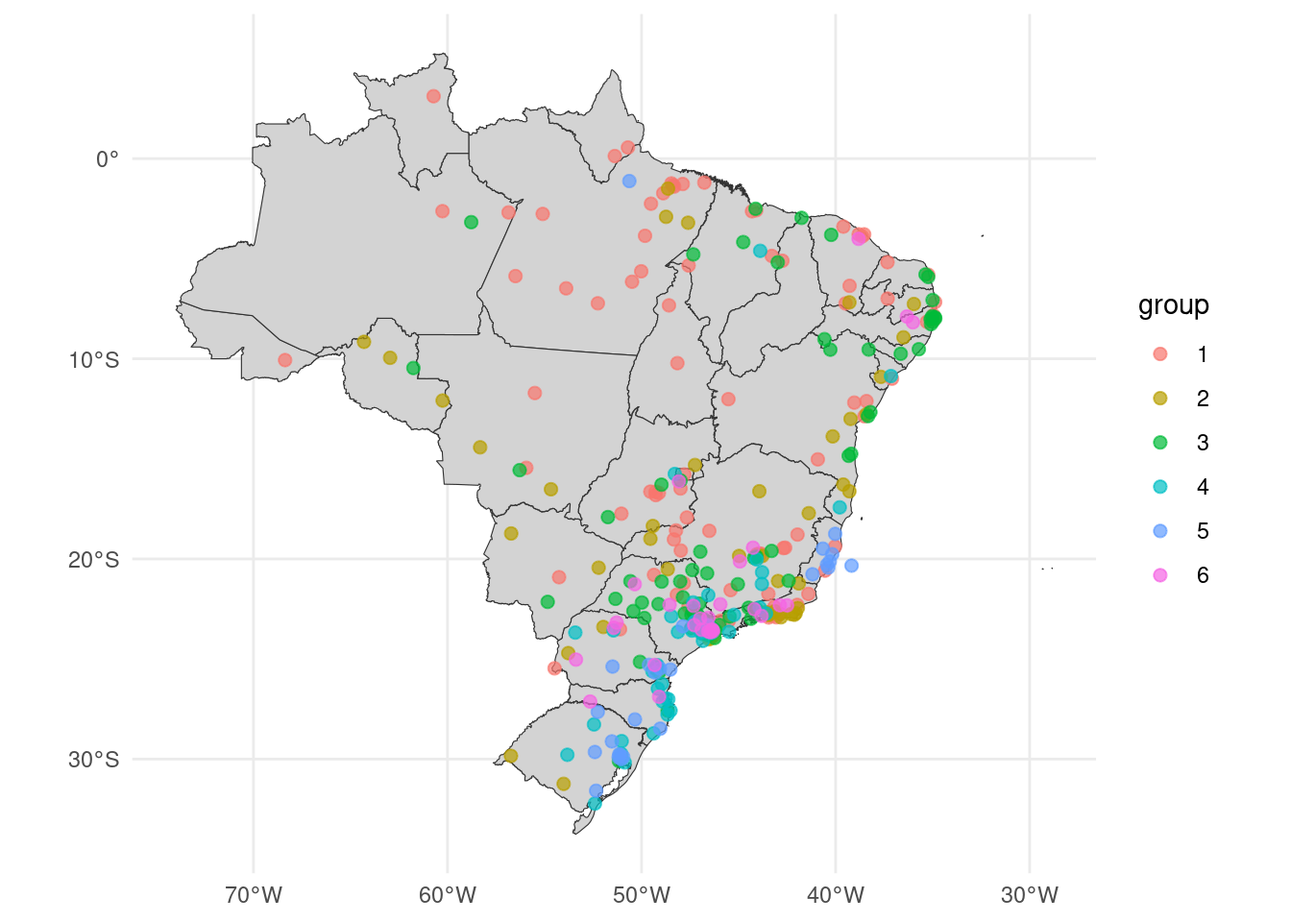
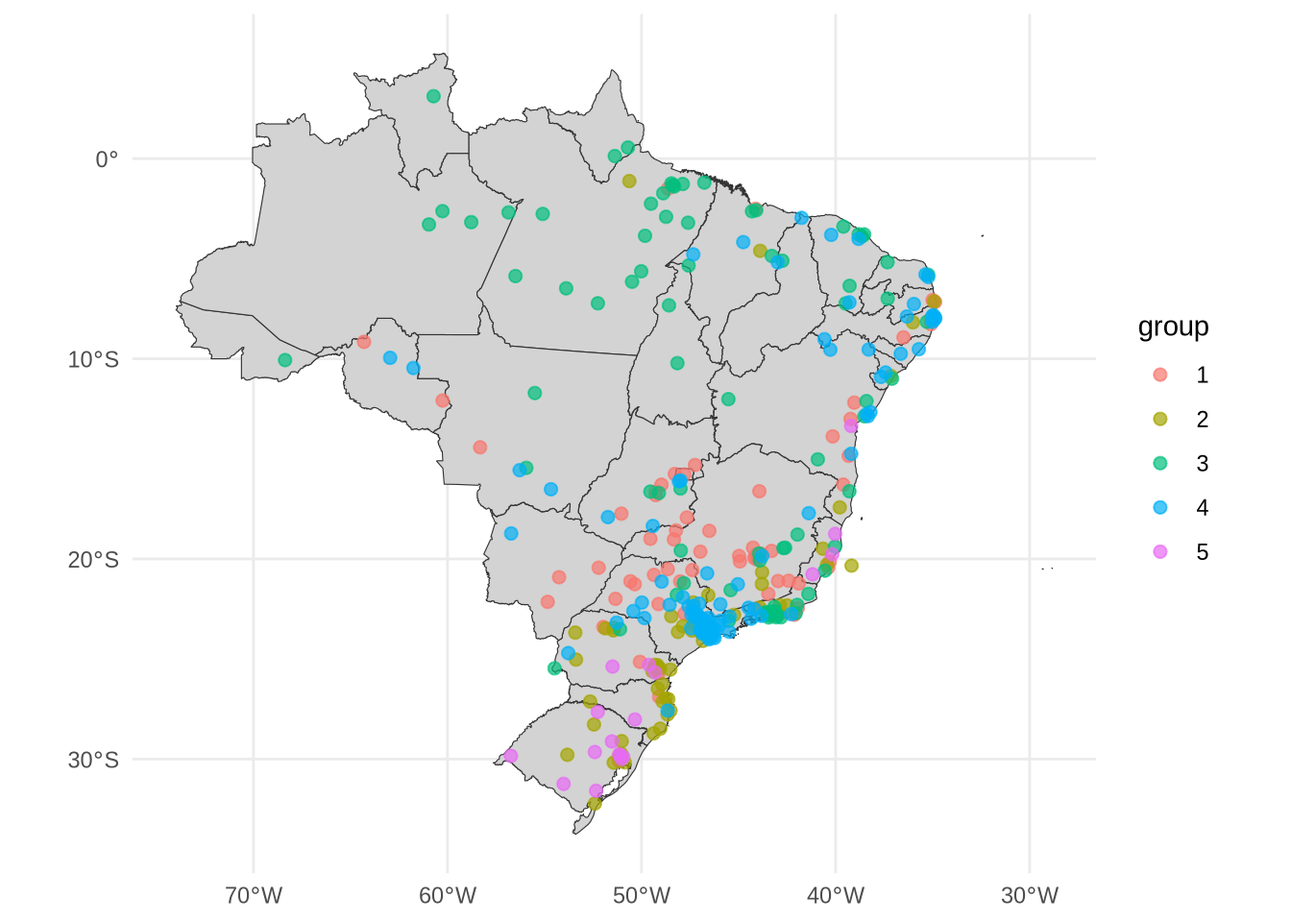
cluster run

diff --git a/docs/dengue-cluster/cluster_multivariate_all.html b/docs/dengue-cluster/cluster_multivariate_all.html
@@ -106,15 +106,15 @@ gtag('js', new Date());
 gtag('config', 'G-ZMP18L536K', { 'anonymize_ip': true});
 </script>
 
-<script src="../site_libs/htmlwidgets-1.6.4/htmlwidgets.js"></script>
+<script src="../site_libs/htmlwidgets-1.6.2/htmlwidgets.js"></script>
 <link href="../site_libs/datatables-css-0.0.0/datatables-crosstalk.css" rel="stylesheet">
-<script src="../site_libs/datatables-binding-0.31/datatables.js"></script>
+<script src="../site_libs/datatables-binding-0.28/datatables.js"></script>
 <script src="../site_libs/jquery-3.6.0/jquery-3.6.0.min.js"></script>
-<link href="../site_libs/dt-core-1.13.6/css/jquery.dataTables.min.css" rel="stylesheet">
-<link href="../site_libs/dt-core-1.13.6/css/jquery.dataTables.extra.css" rel="stylesheet">
-<script src="../site_libs/dt-core-1.13.6/js/jquery.dataTables.min.js"></script>
-<link href="../site_libs/crosstalk-1.2.1/css/crosstalk.min.css" rel="stylesheet">
-<script src="../site_libs/crosstalk-1.2.1/js/crosstalk.min.js"></script>
+<link href="../site_libs/dt-core-1.13.4/css/jquery.dataTables.min.css" rel="stylesheet">
+<link href="../site_libs/dt-core-1.13.4/css/jquery.dataTables.extra.css" rel="stylesheet">
+<script src="../site_libs/dt-core-1.13.4/js/jquery.dataTables.min.js"></script>
+<link href="../site_libs/crosstalk-1.2.0/css/crosstalk.min.css" rel="stylesheet">
+<script src="../site_libs/crosstalk-1.2.0/js/crosstalk.min.js"></script>
 
 
 <link rel="stylesheet" href="../styles.css">
@@ -608,7 +608,7 @@ gtag('config', 'G-ZMP18L536K', { 'anonymize_ip': true});
     <div>
     <div class="quarto-title-meta-heading">Last modification</div>
     <div class="quarto-title-meta-contents">
-      <p class="date">January 29, 2024 | 14:13:45 +01:00</p>
+      <p class="date">January 29, 2024 | 10:39:52 -03:00</p>
     </div>
   </div>
   
@@ -644,13 +644,13 @@ gtag('config', 'G-ZMP18L536K', { 'anonymize_ip': true});
 <span id="cb2-4"><a href="#cb2-4" aria-hidden="true" tabindex="-1"></a></span>
 <span id="cb2-5"><a href="#cb2-5" aria-hidden="true" tabindex="-1"></a><span class="fu">dim</span>(tdengue)</span></code><button title="Copy to Clipboard" class="code-copy-button"><i class="bi"></i></button></pre></div>
 <div class="cell-output cell-output-stdout">
-<pre><code>[1] 163326      6</code></pre>
+<pre><code>[1] 331980      6</code></pre>
 </div>
 </div>
 <div class="cell">
 <div class="sourceCode cell-code" id="cb4"><pre class="sourceCode r code-with-copy"><code class="sourceCode r"><span id="cb4-1"><a href="#cb4-1" aria-hidden="true" tabindex="-1"></a><span class="fu">length</span>(<span class="fu">unique</span>(tdengue<span class="sc">$</span>mun))</span></code><button title="Copy to Clipboard" class="code-copy-button"><i class="bi"></i></button></pre></div>
 <div class="cell-output cell-output-stdout">
-<pre><code>[1] 326</code></pre>
+<pre><code>[1] 333</code></pre>
 </div>
 </div>
 <p>Data for maps.</p>
@@ -688,15 +688,15 @@ gtag('config', 'G-ZMP18L536K', { 'anonymize_ip': true});
 <div class="sourceCode cell-code" id="cb12"><pre class="sourceCode r code-with-copy"><code class="sourceCode r"><span id="cb12-1"><a href="#cb12-1" aria-hidden="true" tabindex="-1"></a><span class="fu">glimpse</span>(mdengue[<span class="dv">1</span><span class="sc">:</span><span class="dv">3</span>])</span></code><button title="Copy to Clipboard" class="code-copy-button"><i class="bi"></i></button></pre></div>
 <div class="cell-output cell-output-stdout">
 <pre><code>List of 3
- $ 110002: num [1:501, 1:4] -0.5104 0.668 0.668 0.0788 0.668 ...
+ $ 110002: num [1:1001, 1:4] -0.511 0.668 0.668 0.668 0.668 ...
   ..- attr(*, "dimnames")=List of 2
   .. ..$ : NULL
   .. ..$ : chr [1:4] "cases" "tmax" "tmin" "prec"
- $ 110012: num [1:501, 1:4] -0.4493 0.6488 1.1979 0.0997 0.0997 ...
+ $ 110012: num [1:1001, 1:4] -0.45 0.648 0.648 1.198 1.198 ...
   ..- attr(*, "dimnames")=List of 2
   .. ..$ : NULL
   .. ..$ : chr [1:4] "cases" "tmax" "tmin" "prec"
- $ 110020: num [1:501, 1:4] -0.5195 0.1563 0.0718 -0.1816 0.3253 ...
+ $ 110020: num [1:1001, 1:4] -0.5201 0.1558 0.1558 0.0713 0.0713 ...
   ..- attr(*, "dimnames")=List of 2
   .. ..$ : NULL
   .. ..$ : chr [1:4] "cases" "tmax" "tmin" "prec"</code></pre>
@@ -716,7 +716,7 @@ gtag('config', 'G-ZMP18L536K', { 'anonymize_ip': true});
 <span id="cb14-7"><a href="#cb14-7" aria-hidden="true" tabindex="-1"></a>)</span>
 <span id="cb14-8"><a href="#cb14-8" aria-hidden="true" tabindex="-1"></a><span class="fu">toc</span>()</span></code><button title="Copy to Clipboard" class="code-copy-button"><i class="bi"></i></button></pre></div>
 <div class="cell-output cell-output-stdout">
-<pre><code>13.926 sec elapsed</code></pre>
+<pre><code>33.221 sec elapsed</code></pre>
 </div>
 </div>
 <section id="cluster-validity-indices-cvi" class="level3">
@@ -731,8 +731,8 @@ gtag('config', 'G-ZMP18L536K', { 'anonymize_ip': true});
 <span id="cb16-7"><a href="#cb16-7" aria-hidden="true" tabindex="-1"></a><span class="fu">datatable</span>(res_cvi)</span></code><button title="Copy to Clipboard" class="code-copy-button"><i class="bi"></i></button></pre></div>
 <div class="cell-output-display">
 
-<div class="datatables html-widget html-fill-item" id="htmlwidget-2228f0057e4179a1f21e" style="width:100%;height:auto;"></div>
-<script type="application/json" data-for="htmlwidget-2228f0057e4179a1f21e">{"x":{"filter":"none","vertical":false,"data":[["1","2","3","4","5","6","7","8","9","10","11","12","13","14","15","16","17","18"],["k_6","k_5","k_14","k_4","k_11","k_15","k_10","k_3","k_19","k_8","k_20","k_17","k_9","k_18","k_16","k_12","k_13","k_7"],[0.1530297469356477,0.1440762044713745,0.1400584225015963,0.1354547579634003,0.1208323157407356,0.1105893378279768,0.1095486174706609,0.1094875020359826,0.1089257116601769,0.09797794633096432,0.09210995555770808,0.09154821081714312,0.08908547609352244,0.08260358364305846,0.08129072667558394,0.07136656410796276,0.06131959166201611,0.03334285681935422],[0,0,0,0,0,0,0,0,0,0,0,0,0,0,0,0,0,0],[66.03871539724065,70.83730006839602,31.05107538599962,73.72133754541019,36.74893705232316,28.20357775100776,37.92326564538576,132.799072097871,23.39248613274816,46.02250861410634,22.58194920998412,26.34562406898972,41.3226490792125,23.70068122356517,25.71442726657208,34.46339975166363,32.37456572009118,39.47010817257704],[2.016717468165261,1.939575756275471,1.569492045784807,1.80846374856984,1.796855644968916,1.82821826051781,1.95121179376399,1.799833628541421,1.807197655292344,2.345528320027988,1.722026296063557,1.938822173588695,2.109041983689778,2.018107368640858,1.794717064569474,2.306726907779244,2.044140737665228,2.491651988726502],[2.831176268818642,2.347999367208251,1.951876574122824,1.819376903904833,2.284181270249329,2.69986132475828,2.646232116412836,1.876632643543888,2.300494532526559,3.133500281328306,2.29180932440963,2.597457610600983,2.915782300990952,2.656927220913814,2.672091378347231,2.968123486807218,2.857604373450767,2.757466387210257],[0.06404119331825649,0.05293480520822988,0.07478527348838045,0.07474487852441768,0.06461003914169353,0.09877742552571456,0.09261909518077052,0.05288796621815163,0.1010807627526162,0.06404119331825649,0.1020234877438586,0.07528597865196485,0.06974269565671985,0.05311861964957065,0.06407529214486364,0.0469497174971813,0.04481128132921332,0.05903396603380133],[0.2750364644880977,0.29375881890079,0.2368916791190641,0.3655863370523117,0.2495944625836389,0.2381982078210064,0.251850261562682,0.3672949506522975,0.2234764172064207,0.2688587067005322,0.2203517930010253,0.2249012289596225,0.2632677092874243,0.2320771535639892,0.2380825819007399,0.2470739370001668,0.2455732801168612,0.3216543774674874]],"container":"<table class=\"display\">\n  <thead>\n    <tr>\n      <th> <\/th>\n      <th>k<\/th>\n      <th>Sil<\/th>\n      <th>SF<\/th>\n      <th>CH<\/th>\n      <th>DB<\/th>\n      <th>DBstar<\/th>\n      <th>D<\/th>\n      <th>COP<\/th>\n    <\/tr>\n  <\/thead>\n<\/table>","options":{"columnDefs":[{"className":"dt-right","targets":[2,3,4,5,6,7,8]},{"orderable":false,"targets":0},{"name":" ","targets":0},{"name":"k","targets":1},{"name":"Sil","targets":2},{"name":"SF","targets":3},{"name":"CH","targets":4},{"name":"DB","targets":5},{"name":"DBstar","targets":6},{"name":"D","targets":7},{"name":"COP","targets":8}],"order":[],"autoWidth":false,"orderClasses":false},"selection":{"mode":"multiple","selected":null,"target":"row","selectable":null}},"evals":[],"jsHooks":[]}</script>
+<div class="datatables html-widget html-fill-item-overflow-hidden html-fill-item" id="htmlwidget-602228f0057e4179a1f2" style="width:100%;height:auto;"></div>
+<script type="application/json" data-for="htmlwidget-602228f0057e4179a1f2">{"x":{"filter":"none","vertical":false,"data":[["1","2","3","4","5","6","7","8","9","10","11","12","13","14","15","16","17","18"],["k_5","k_10","k_4","k_11","k_8","k_9","k_3","k_6","k_15","k_18","k_7","k_14","k_16","k_13","k_12","k_19","k_17","k_20"],[0.1279891898123446,0.119391513627497,0.1112460346175835,0.111183544363204,0.1037889735428478,0.09908440332531278,0.09892984383200942,0.09398010585344234,0.09269024567672776,0.08951796943607226,0.08892738818122657,0.08854704499566712,0.08643915610544772,0.0820343625057926,0.07761686669656334,0.06921027960321488,0.05487261485226928,0.04173607783450495],[0,0,0,0,0,0,0,0,0,0,0,0,0,0,0,0,0,0],[77.75557636045349,36.86152453465702,84.89952578430741,35.64293817440353,41.08147273532985,43.48789744620822,106.4230192029615,52.53254600580426,25.96180002036026,23.803732462588,53.87800011773442,30.10210404457136,27.11284537736144,29.87663609861306,31.04191310540553,21.59494888502675,22.62436202537118,18.76528009214688],[1.658898470788445,1.882554869825658,1.924466082331256,1.9938445306628,2.204419668240759,1.648603751234362,2.107691477550161,2.137246906350873,1.945500720947033,1.9060611331235,1.830034787074255,1.904295830187339,1.85320605023181,1.932421270659566,2.117756324004935,1.759508162073236,2.164061740353588,2.138780449354899],[2.144809158458031,2.660883630629609,2.184289831286962,2.519810188189624,3.031635798966411,2.176479681652975,2.113687431492114,2.693270360372969,2.794142587602786,2.531278171566188,2.354791994887921,2.530897103864516,2.201971561180548,2.72361744371077,3.038253168112735,2.623302907037457,3.127845415735809,3.227042391768956],[0.08223307687689742,0.0818423748225903,0.07874964129385519,0.08770535045225687,0.07079839471025445,0.06152565069149599,0.09378627426196144,0.07079839471025445,0.1028779404861086,0.09141522966759452,0.07874964129385519,0.05464640279993375,0.0807654199387649,0.07079839471025445,0.07079839471025445,0.04624141913723524,0.06838457120656347,0.04920344101067848],[0.3008754691926039,0.2773243959547624,0.3411457223621422,0.2709614172930037,0.2894771446282627,0.2766254810204077,0.3816313315558913,0.3159596106312662,0.2660881402551111,0.2410372808552153,0.3218964738939778,0.2549663513244521,0.2490030578486272,0.275890948091602,0.2713504596501977,0.2605357604354647,0.2637490636418223,0.2564643160435325]],"container":"<table class=\"display\">\n  <thead>\n    <tr>\n      <th> <\/th>\n      <th>k<\/th>\n      <th>Sil<\/th>\n      <th>SF<\/th>\n      <th>CH<\/th>\n      <th>DB<\/th>\n      <th>DBstar<\/th>\n      <th>D<\/th>\n      <th>COP<\/th>\n    <\/tr>\n  <\/thead>\n<\/table>","options":{"columnDefs":[{"className":"dt-right","targets":[2,3,4,5,6,7,8]},{"orderable":false,"targets":0}],"order":[],"autoWidth":false,"orderClasses":false},"selection":{"mode":"multiple","selected":null,"target":"row","selectable":null}},"evals":[],"jsHooks":[]}</script>
 </div>
 </div>
 <div class="cell">
@@ -750,8 +750,8 @@ gtag('config', 'G-ZMP18L536K', { 'anonymize_ip': true});
 <div class="sourceCode cell-code" id="cb18"><pre class="sourceCode r code-with-copy"><code class="sourceCode r"><span id="cb18-1"><a href="#cb18-1" aria-hidden="true" tabindex="-1"></a><span class="fu">table</span>(m_sel_clust<span class="sc">@</span>cluster)</span></code><button title="Copy to Clipboard" class="code-copy-button"><i class="bi"></i></button></pre></div>
 <div class="cell-output cell-output-stdout">
 <pre><code>
- 1  2  3  4  5  6 
-91 48 84 47 27 29 </code></pre>
+  1   2   3   4   5 
+ 69  62  82 102  18 </code></pre>
 </div>
 </div>
 </section>
@@ -781,8 +781,8 @@ gtag('config', 'G-ZMP18L536K', { 'anonymize_ip': true});
 <span id="cb23-5"><a href="#cb23-5" aria-hidden="true" tabindex="-1"></a>  <span class="fu">datatable</span>()</span></code><button title="Copy to Clipboard" class="code-copy-button"><i class="bi"></i></button></pre></div>
 <div class="cell-output-display">
 
-<div class="datatables html-widget html-fill-item" id="htmlwidget-0a0473e6474226addf1e" style="width:100%;height:auto;"></div>
-<script type="application/json" data-for="htmlwidget-0a0473e6474226addf1e">{"x":{"filter":"none","vertical":false,"data":[["1","2","3","4","5","6","7","8","9","10","11","12","13","14","15","16","17","18","19","20","21","22","23","24","25","26","27","28","29","30","31","32","33","34","35","36","37","38","39","40","41","42","43","44","45","46","47","48","49","50","51","52","53","54","55","56","57","58","59","60","61","62","63","64","65","66","67","68","69","70","71","72","73","74","75","76","77","78","79","80","81","82","83","84","85","86","87","88","89","90","91","92","93","94","95","96","97","98","99","100","101","102","103","104","105","106","107","108","109","110","111","112","113","114","115","116","117","118","119","120","121","122","123","124","125","126","127","128","129","130","131","132","133","134","135","136","137","138","139","140","141","142","143","144","145","146","147","148","149","150","151","152","153","154","155","156","157","158","159","160","161","162","163","164","165","166","167","168","169","170","171","172","173","174","175","176","177","178","179","180","181","182","183","184","185","186","187","188","189","190","191","192","193","194","195","196","197","198","199","200","201","202","203","204","205","206","207","208","209","210","211","212","213","214","215","216","217","218","219","220","221","222","223","224","225","226","227","228","229","230","231","232","233","234","235","236","237","238","239","240","241","242","243","244","245","246","247","248","249","250","251","252","253","254","255","256","257","258","259","260","261","262","263","264","265","266","267","268","269","270","271","272","273","274","275","276","277","278","279","280","281","282","283","284","285","286","287","288","289","290","291","292","293","294","295","296","297","298","299","300","301","302","303","304","305","306","307","308","309","310","311","312","313","314","315","316","317","318","319","320","321","322","323","324","325","326"],["1","1","1","1","1","1","1","1","1","1","1","1","1","1","1","1","1","1","1","1","1","1","1","1","1","1","1","1","1","1","1","1","1","1","1","1","1","1","1","1","1","1","1","1","1","1","1","1","1","1","1","1","1","1","1","1","1","1","1","1","1","1","1","1","1","1","1","1","1","1","1","1","1","1","1","1","1","1","1","1","1","1","1","1","1","1","1","1","1","1","1","2","2","2","2","2","2","2","2","2","2","2","2","2","2","2","2","2","2","2","2","2","2","2","2","2","2","2","2","2","2","2","2","2","2","2","2","2","2","2","2","2","2","2","2","2","2","2","2","3","3","3","3","3","3","3","3","3","3","3","3","3","3","3","3","3","3","3","3","3","3","3","3","3","3","3","3","3","3","3","3","3","3","3","3","3","3","3","3","3","3","3","3","3","3","3","3","3","3","3","3","3","3","3","3","3","3","3","3","3","3","3","3","3","3","3","3","3","3","3","3","3","3","3","3","3","3","3","3","3","3","3","3","4","4","4","4","4","4","4","4","4","4","4","4","4","4","4","4","4","4","4","4","4","4","4","4","4","4","4","4","4","4","4","4","4","4","4","4","4","4","4","4","4","4","4","4","4","4","4","5","5","5","5","5","5","5","5","5","5","5","5","5","5","5","5","5","5","5","5","5","5","5","5","5","5","5","6","6","6","6","6","6","6","6","6","6","6","6","6","6","6","6","6","6","6","6","6","6","6","6","6","6","6","6","6"],["Abaetetuba","Alagoinhas","Altamira","Ananindeua","Aparecida De Goiânia","Aracaju","Araguari","Araguaína","Araraquara","Barreiras","Belo Horizonte","Belém","Boa Vista","Bragança","Brasília","Cametá","Campo Grande","Campos Dos Goytacazes","Castanhal","Catalão","Caucaia","Caxias","Coronel Fabriciano","Crato","Cuiabá","Duque De Caxias","Feira De Santana","Fortaleza","Foz Do Iguaçu","Goiânia","Governador Valadares","Guarapari","Igarassu","Iguatu","Imperatriz","Ipatinga","Itaituba","Itapipoca","João Pessoa","Juiz De Fora","Linhares","Londrina","Luziânia","Macapá","Macaé","Manaus","Marabá","Maracanaú","Marituba","Mossoró","Natal","Nilópolis","Niterói","Nova Iguaçu","Palmas","Parauapebas","Parintins","Patos","Patos De Minas","Petrópolis","Recife","Ribeirão Preto","Rio Branco","Rio Claro","Rio De Janeiro","Rio Verde","Salvador","Santa Luzia","Santana","Santarém","Senador Canedo","Sinop","Sumaré","São Félix Do Xingu","São Gonçalo","São José De Ribamar","São José Do Rio Preto","São José Dos Campos","São João De Meriti","São Luís","São Paulo","Taubaté","Teresina","Trindade","Tucuruí","Uberaba","Uberlândia","Varginha","Vespasiano","Vitória Da Conquista","Vitória De Santo Antão","Araruama","Ariquemes","Bagé","Barcarena","Barretos","Belford Roxo","Cabo Frio","Campina Grande","Corumbá","Cubatão","Eunápolis","Formosa","Garanhuns","Itaboraí","Itaperuna","Ituiutaba","Itumbiara","Japeri","Jequié","Juazeiro Do Norte","Lagarto","Magé","Maricá","Maringá","Mesquita","Montes Claros","Nova Serrana","Paragominas","Porto Seguro","Porto Velho","Praia Grande","Ribeirão Das Neves","Rio Das Ostras","Rondonópolis","Sabará","Santo Antônio De Jesus","Santos","Simões Filho","São Pedro Da Aldeia","São Vicente","Tailândia","Tangará Da Serra","Teófilo Otoni","Toledo","Três Lagoas","Ubá","Uruguaiana","Vilhena","Abreu E Lima","Americana","Angra Dos Reis","Anápolis","Arapiraca","Araxá","Araçatuba","Assis","Atibaia","Açailândia","Bacabal","Barueri","Bauru","Betim","Cabo De Santo Agostinho","Camaragibe","Camaçari","Campinas","Catanduva","Contagem","Curitiba","Diadema","Dourados","Embu","Franca","Francisco Morato","Guarujá","Guarulhos","Hortolândia","Ilhéus","Itabira","Itabuna","Itacoatiara","Itapecerica Da Serra","Itapevi","Itaquaquecetuba","Itatiba","Jaboatão Dos Guararapes","Jacareí","Jataí","Ji-Paraná","Juazeiro","Jundiaí","Lauro De Freitas","Lavras","Limeira","Maceió","Marília","Mogi Das Cruzes","Mogi Guaçu","Muriaé","Olinda","Osasco","Ourinhos","Parnamirim","Parnaíba","Passos","Paulista","Paulo Afonso","Paulínia","Paço Do Lumiar","Petrolina","Pindamonhangaba","Piracicaba","Ponta Grossa","Porto Alegre","Presidente Prudente","Resende","Santa Bárbara D'oeste","Santa Rita","Santo André","Sertãozinho","Sobral","Sorocaba","São Bernardo Do Campo","São Carlos","São Gonçalo Do Amarante","São José","São José Dos Pinhais","São Lourenço Da Mata","Timon","Valparaíso De Goiás","Volta Redonda","Várzea Grande","Apucarana","Araucária","Balneário Camboriú","Barbacena","Barra Do Piraí","Botucatu","Brusque","Cachoeirinha","Caieiras","Caraguatatuba","Carapicuíba","Caxias Do Sul","Codó","Colombo","Conselheiro Lafaiete","Cotia","Criciúma","Florianópolis","Franco Da Rocha","Guaratinguetá","Ibirité","Indaiatuba","Itajaí","Itanhaém","Itapetininga","Jaraguá Do Sul","Joinville","Leme","Nossa Senhora Do Socorro","Novo Hamburgo","Palhoça","Passo Fundo","Pinhais","Poços De Caldas","Queimados","Ribeirão Pires","Rio Grande","Salto","Santa Maria","Santana De Parnaíba","Taboão Da Serra","Teixeira De Freitas","Umuarama","Viamão","Votorantim","Várzea Paulista","Águas Lindas De Goiás","Alvorada","Aracruz","Bento Gonçalves","Breves","Cachoeiro De Itapemirim","Campo Largo","Canoas","Cariacica","Colatina","Erechim","Fazenda Rio Grande","Gravataí","Guarapuava","Lages","Mairiporã","Paranaguá","Pelotas","Piraquara","Santa Cruz Do Sul","Sapucaia Do Sul","Serra","São Leopoldo","São Mateus","Tatuí","Tubarão","Vila Velha","Vitória","Almirante Tamandaré","Arapongas","Araras","Barra Mansa","Birigui","Blumenau","Bragança Paulista","Cambé","Caruaru","Cascavel","Chapecó","Divinópolis","Ferraz De Vasconcelos","Itaguaí","Itu","Jandira","Jaú","Maranguape","Mauá","Nova Friburgo","Novo Gama","Pouso Alegre","Poá","Santa Cruz Do Capibaribe","Sete Lagoas","Suzano","São Caetano Do Sul","Teresópolis","Valinhos"],["PA","BA","PA","PA","GO","SE","MG","TO","SP","BA","MG","PA","RR","PA","DF","PA","MS","RJ","PA","GO","CE","MA","MG","CE","MT","RJ","BA","CE","PR","GO","MG","ES","PE","CE","MA","MG","PA","CE","PB","MG","ES","PR","GO","AP","RJ","AM","PA","CE","PA","RN","RN","RJ","RJ","RJ","TO","PA","AM","PB","MG","RJ","PE","SP","AC","SP","RJ","GO","BA","MG","AP","PA","GO","MT","SP","PA","RJ","MA","SP","SP","RJ","MA","SP","SP","PI","GO","PA","MG","MG","MG","MG","BA","PE","RJ","RO","RS","PA","SP","RJ","RJ","PB","MS","SP","BA","GO","PE","RJ","RJ","MG","GO","RJ","BA","CE","SE","RJ","RJ","PR","RJ","MG","MG","PA","BA","RO","SP","MG","RJ","MT","MG","BA","SP","BA","RJ","SP","PA","MT","MG","PR","MS","MG","RS","RO","PE","SP","RJ","GO","AL","MG","SP","SP","SP","MA","MA","SP","SP","MG","PE","PE","BA","SP","SP","MG","PR","SP","MS","SP","SP","SP","SP","SP","SP","BA","MG","BA","AM","SP","SP","SP","SP","PE","SP","GO","RO","BA","SP","BA","MG","SP","AL","SP","SP","SP","MG","PE","SP","SP","RN","PI","MG","PE","BA","SP","MA","PE","SP","SP","PR","RS","SP","RJ","SP","PB","SP","SP","CE","SP","SP","SP","RN","SC","PR","PE","MA","GO","RJ","MT","PR","PR","SC","MG","RJ","SP","SC","RS","SP","SP","SP","RS","MA","PR","MG","SP","SC","SC","SP","SP","MG","SP","SC","SP","SP","SC","SC","SP","SE","RS","SC","RS","PR","MG","RJ","SP","RS","SP","RS","SP","SP","BA","PR","RS","SP","SP","GO","RS","ES","RS","PA","ES","PR","RS","ES","ES","RS","PR","RS","PR","SC","SP","PR","RS","PR","RS","RS","ES","RS","ES","SP","SC","ES","ES","PR","PR","SP","RJ","SP","SC","SP","PR","PE","PR","SC","MG","SP","RJ","SP","SP","SP","CE","SP","RJ","GO","MG","SP","PE","MG","SP","SP","RJ","SP"]],"container":"<table class=\"display\">\n  <thead>\n    <tr>\n      <th> <\/th>\n      <th>group<\/th>\n      <th>name_muni<\/th>\n      <th>abbrev_state<\/th>\n    <\/tr>\n  <\/thead>\n<\/table>","options":{"columnDefs":[{"orderable":false,"targets":0},{"name":" ","targets":0},{"name":"group","targets":1},{"name":"name_muni","targets":2},{"name":"abbrev_state","targets":3}],"order":[],"autoWidth":false,"orderClasses":false},"selection":{"mode":"multiple","selected":null,"target":"row","selectable":null}},"evals":[],"jsHooks":[]}</script>
+<div class="datatables html-widget html-fill-item-overflow-hidden html-fill-item" id="htmlwidget-1e0a0473e6474226addf" style="width:100%;height:auto;"></div>
+<script type="application/json" data-for="htmlwidget-1e0a0473e6474226addf">{"x":{"filter":"none","vertical":false,"data":[["1","2","3","4","5","6","7","8","9","10","11","12","13","14","15","16","17","18","19","20","21","22","23","24","25","26","27","28","29","30","31","32","33","34","35","36","37","38","39","40","41","42","43","44","45","46","47","48","49","50","51","52","53","54","55","56","57","58","59","60","61","62","63","64","65","66","67","68","69","70","71","72","73","74","75","76","77","78","79","80","81","82","83","84","85","86","87","88","89","90","91","92","93","94","95","96","97","98","99","100","101","102","103","104","105","106","107","108","109","110","111","112","113","114","115","116","117","118","119","120","121","122","123","124","125","126","127","128","129","130","131","132","133","134","135","136","137","138","139","140","141","142","143","144","145","146","147","148","149","150","151","152","153","154","155","156","157","158","159","160","161","162","163","164","165","166","167","168","169","170","171","172","173","174","175","176","177","178","179","180","181","182","183","184","185","186","187","188","189","190","191","192","193","194","195","196","197","198","199","200","201","202","203","204","205","206","207","208","209","210","211","212","213","214","215","216","217","218","219","220","221","222","223","224","225","226","227","228","229","230","231","232","233","234","235","236","237","238","239","240","241","242","243","244","245","246","247","248","249","250","251","252","253","254","255","256","257","258","259","260","261","262","263","264","265","266","267","268","269","270","271","272","273","274","275","276","277","278","279","280","281","282","283","284","285","286","287","288","289","290","291","292","293","294","295","296","297","298","299","300","301","302","303","304","305","306","307","308","309","310","311","312","313","314","315","316","317","318","319","320","321","322","323","324","325","326","327","328","329","330","331","332","333"],["1","1","1","1","1","1","1","1","1","1","1","1","1","1","1","1","1","1","1","1","1","1","1","1","1","1","1","1","1","1","1","1","1","1","1","1","1","1","1","1","1","1","1","1","1","1","1","1","1","1","1","1","1","1","1","1","1","1","1","1","1","1","1","1","1","1","1","1","1","2","2","2","2","2","2","2","2","2","2","2","2","2","2","2","2","2","2","2","2","2","2","2","2","2","2","2","2","2","2","2","2","2","2","2","2","2","2","2","2","2","2","2","2","2","2","2","2","2","2","2","2","2","2","2","2","2","2","2","2","2","2","3","3","3","3","3","3","3","3","3","3","3","3","3","3","3","3","3","3","3","3","3","3","3","3","3","3","3","3","3","3","3","3","3","3","3","3","3","3","3","3","3","3","3","3","3","3","3","3","3","3","3","3","3","3","3","3","3","3","3","3","3","3","3","3","3","3","3","3","3","3","3","3","3","3","3","3","3","3","3","3","3","3","4","4","4","4","4","4","4","4","4","4","4","4","4","4","4","4","4","4","4","4","4","4","4","4","4","4","4","4","4","4","4","4","4","4","4","4","4","4","4","4","4","4","4","4","4","4","4","4","4","4","4","4","4","4","4","4","4","4","4","4","4","4","4","4","4","4","4","4","4","4","4","4","4","4","4","4","4","4","4","4","4","4","4","4","4","4","4","4","4","4","4","4","4","4","4","4","4","4","4","4","4","4","5","5","5","5","5","5","5","5","5","5","5","5","5","5","5","5","5","5"],["Anápolis","Aparecida De Goiânia","Araguari","Araxá","Araçatuba","Barcarena","Barretos","Bauru","Belo Horizonte","Betim","Birigui","Blumenau","Brasília","Cabo De Santo Agostinho","Campo Grande","Catalão","Contagem","Curitiba","Divinópolis","Dourados","Eunápolis","Feira De Santana","Formosa","Franca","Garanhuns","Goiânia","Ibirité","Itabira","Itaboraí","Itabuna","Itaperuna","Itu","Ituiutaba","Jequié","João Pessoa","Juiz De Fora","Maringá","Montes Claros","Muriaé","Nova Serrana","Patos De Minas","Paço Do Lumiar","Piracicaba","Ponta Grossa","Porto Alegre","Porto Velho","Presidente Prudente","Ribeirão Das Neves","Rio Das Ostras","Rio Verde","Santa Luzia","Santa Rita","Santo Antônio De Jesus","Serra","Sertãozinho","Sete Lagoas","Suzano","São José Do Rio Preto","São José Dos Pinhais","São Lourenço Da Mata","São Pedro Da Aldeia","Tangará Da Serra","Três Lagoas","Uberlândia","Ubá","Vila Velha","Vilhena","Volta Redonda","Águas Lindas De Goiás","Almirante Tamandaré","Apucarana","Arapongas","Araucária","Balneário Camboriú","Barbacena","Barra Do Piraí","Bayeux","Botucatu","Breves","Brusque","Cachoeirinha","Caieiras","Canoas","Carapicuíba","Cariacica","Caruaru","Cascavel","Caxias Do Sul","Chapecó","Codó","Colatina","Colombo","Conselheiro Lafaiete","Cotia","Criciúma","Florianópolis","Franco Da Rocha","Guaratinguetá","Guaíba","Indaiatuba","Itajaí","Itanhaém","Itapetininga","Jaraguá Do Sul","Joinville","Leme","Mairiporã","Nossa Senhora Do Socorro","Nova Friburgo","Novo Hamburgo","Palhoça","Paranaguá","Passo Fundo","Pinhais","Piraquara","Poços De Caldas","Queimados","Ribeirão Pires","Rio Grande","Salto","Santa Maria","Sarandi","Tatuí","Teixeira De Freitas","Teresópolis","Tubarão","Umuarama","Viamão","Vitória","Votorantim","Várzea Paulista","Abaetetuba","Alagoinhas","Altamira","Ananindeua","Aracaju","Araguaína","Araraquara","Barreiras","Belford Roxo","Belém","Boa Vista","Bragança","Cabo Frio","Cametá","Campos Dos Goytacazes","Castanhal","Caucaia","Caxias","Coronel Fabriciano","Crato","Cuiabá","Duque De Caxias","Fortaleza","Foz Do Iguaçu","Governador Valadares","Guarapari","Iguatu","Imperatriz","Ipatinga","Itacoatiara","Itaituba","Itapipoca","Japeri","Linhares","Londrina","Luziânia","Macapá","Macaé","Magé","Manacapuru","Manaus","Marabá","Maracanaú","Maricá","Marituba","Mesquita","Mossoró","Natal","Nilópolis","Niterói","Nova Iguaçu","Nova Lima","Palmas","Paragominas","Parauapebas","Parintins","Patos","Petrópolis","Porto Seguro","Ribeirão Preto","Rio Branco","Rio De Janeiro","Salvador","Santana","Santarém","Senador Canedo","Sinop","São Félix Do Xingu","São Gonçalo","São José De Ribamar","São João De Meriti","São Luís","Tailândia","Taubaté","Teresina","Trindade","Tucuruí","Uberaba","Varginha","Vespasiano","Vitória Da Conquista","Vitória De Santo Antão","Abreu E Lima","Americana","Angra Dos Reis","Arapiraca","Araras","Araruama","Ariquemes","Assis","Atibaia","Açailândia","Bacabal","Barra Mansa","Barueri","Bragança Paulista","Camaragibe","Camaçari","Cambé","Campina Grande","Campinas","Caraguatatuba","Catanduva","Corumbá","Cubatão","Diadema","Embu","Ferraz De Vasconcelos","Francisco Morato","Guarujá","Guarulhos","Hortolândia","Igarassu","Ilhéus","Itabaiana","Itaguaí","Itapecerica Da Serra","Itapevi","Itaquaquecetuba","Itatiba","Itumbiara","Jaboatão Dos Guararapes","Jacareí","Jandira","Jataí","Jaú","Ji-Paraná","Juazeiro","Juazeiro Do Norte","Jundiaí","Lagarto","Lauro De Freitas","Lavras","Limeira","Maceió","Maranguape","Marília","Mauá","Mogi Das Cruzes","Mogi Guaçu","Novo Gama","Olinda","Osasco","Ourinhos","Parnamirim","Parnaíba","Passos","Paulista","Paulo Afonso","Paulínia","Petrolina","Pindamonhangaba","Pouso Alegre","Poá","Praia Grande","Recife","Resende","Rio Claro","Rondonópolis","Sabará","Santa Bárbara D'oeste","Santa Cruz Do Capibaribe","Santana De Parnaíba","Santo André","Santos","Simões Filho","Sobral","Sorocaba","Sumaré","São Bernardo Do Campo","São Caetano Do Sul","São Carlos","São Gonçalo Do Amarante","São José","São José Dos Campos","São Paulo","São Vicente","Taboão Da Serra","Teófilo Otoni","Timon","Toledo","Valinhos","Valparaíso De Goiás","Várzea Grande","Alvorada","Aracruz","Bagé","Bento Gonçalves","Cachoeiro De Itapemirim","Campo Largo","Erechim","Fazenda Rio Grande","Gravataí","Guarapuava","Lages","Pelotas","Santa Cruz Do Sul","Sapucaia Do Sul","São Leopoldo","São Mateus","Uruguaiana","Valença"],["GO","GO","MG","MG","SP","PA","SP","SP","MG","MG","SP","SC","DF","PE","MS","GO","MG","PR","MG","MS","BA","BA","GO","SP","PE","GO","MG","MG","RJ","BA","RJ","SP","MG","BA","PB","MG","PR","MG","MG","MG","MG","MA","SP","PR","RS","RO","SP","MG","RJ","GO","MG","PB","BA","ES","SP","MG","SP","SP","PR","PE","RJ","MT","MS","MG","MG","ES","RO","RJ","GO","PR","PR","PR","PR","SC","MG","RJ","PB","SP","PA","SC","RS","SP","RS","SP","ES","PE","PR","RS","SC","MA","ES","PR","MG","SP","SC","SC","SP","SP","RS","SP","SC","SP","SP","SC","SC","SP","SP","SE","RJ","RS","SC","PR","RS","PR","PR","MG","RJ","SP","RS","SP","RS","PR","SP","BA","RJ","SC","PR","RS","ES","SP","SP","PA","BA","PA","PA","SE","TO","SP","BA","RJ","PA","RR","PA","RJ","PA","RJ","PA","CE","MA","MG","CE","MT","RJ","CE","PR","MG","ES","CE","MA","MG","AM","PA","CE","RJ","ES","PR","GO","AP","RJ","RJ","AM","AM","PA","CE","RJ","PA","RJ","RN","RN","RJ","RJ","RJ","MG","TO","PA","PA","AM","PB","RJ","BA","SP","AC","RJ","BA","AP","PA","GO","MT","PA","RJ","MA","RJ","MA","PA","SP","PI","GO","PA","MG","MG","MG","BA","PE","PE","SP","RJ","AL","SP","RJ","RO","SP","SP","MA","MA","RJ","SP","SP","PE","BA","PR","PB","SP","SP","SP","MS","SP","SP","SP","SP","SP","SP","SP","SP","PE","BA","SE","RJ","SP","SP","SP","SP","GO","PE","SP","SP","GO","SP","RO","BA","CE","SP","SE","BA","MG","SP","AL","CE","SP","SP","SP","SP","GO","PE","SP","SP","RN","PI","MG","PE","BA","SP","PE","SP","MG","SP","SP","PE","RJ","SP","MT","MG","SP","PE","SP","SP","SP","BA","CE","SP","SP","SP","SP","SP","RN","SC","SP","SP","SP","SP","MG","MA","PR","SP","GO","MT","RS","ES","RS","RS","ES","PR","RS","PR","RS","PR","SC","RS","RS","RS","RS","ES","RS","BA"]],"container":"<table class=\"display\">\n  <thead>\n    <tr>\n      <th> <\/th>\n      <th>group<\/th>\n      <th>name_muni<\/th>\n      <th>abbrev_state<\/th>\n    <\/tr>\n  <\/thead>\n<\/table>","options":{"columnDefs":[{"orderable":false,"targets":0}],"order":[],"autoWidth":false,"orderClasses":false},"selection":{"mode":"multiple","selected":null,"target":"row","selectable":null}},"evals":[],"jsHooks":[]}</script>
 </div>
 </div>
 <div class="cell">
@@ -802,12 +802,11 @@ gtag('config', 'G-ZMP18L536K', { 'anonymize_ip': true});
 <div class="sourceCode cell-code" id="cb25"><pre class="sourceCode r code-with-copy"><code class="sourceCode r"><span id="cb25-1"><a href="#cb25-1" aria-hidden="true" tabindex="-1"></a><span class="fu">sessionInfo</span>()</span></code><button title="Copy to Clipboard" class="code-copy-button"><i class="bi"></i></button></pre></div>
 <div class="cell-output cell-output-stdout">
 <pre><code>R version 4.3.2 (2023-10-31)
-Platform: x86_64-pc-linux-gnu (64-bit)
-Running under: Ubuntu 22.04.3 LTS
+Platform: x86_64-conda-linux-gnu (64-bit)
+Running under: CentOS Linux 7 (Core)
 
 Matrix products: default
-BLAS:   /usr/lib/x86_64-linux-gnu/blas/libblas.so.3.10.0 
-LAPACK: /usr/lib/x86_64-linux-gnu/lapack/liblapack.so.3.10.0
+BLAS/LAPACK: /home/raphaelfs/miniconda3/envs/quarto/lib/libopenblasp-r0.3.25.so;  LAPACK version 3.11.0
 
 Random number generation:
  RNG:     L'Ecuyer-CMRG 
@@ -815,66 +814,67 @@ Random number generation:
  Sample:  Rejection 
  
 locale:
- [1] LC_CTYPE=en_US.UTF-8       LC_NUMERIC=C              
- [3] LC_TIME=en_CA.UTF-8        LC_COLLATE=en_US.UTF-8    
- [5] LC_MONETARY=en_CA.UTF-8    LC_MESSAGES=en_US.UTF-8   
- [7] LC_PAPER=en_CA.UTF-8       LC_NAME=C                 
+ [1] LC_CTYPE=pt_BR.UTF-8       LC_NUMERIC=C              
+ [3] LC_TIME=pt_BR.UTF-8        LC_COLLATE=pt_BR.UTF-8    
+ [5] LC_MONETARY=pt_BR.UTF-8    LC_MESSAGES=pt_BR.UTF-8   
+ [7] LC_PAPER=pt_BR.UTF-8       LC_NAME=C                 
  [9] LC_ADDRESS=C               LC_TELEPHONE=C            
-[11] LC_MEASUREMENT=en_CA.UTF-8 LC_IDENTIFICATION=C       
+[11] LC_MEASUREMENT=pt_BR.UTF-8 LC_IDENTIFICATION=C       
 
-time zone: Europe/Paris
+time zone: America/Sao_Paulo
 tzcode source: system (glibc)
 
 attached base packages:
 [1] stats     graphics  grDevices utils     datasets  methods   base     
 
 other attached packages:
- [1] DT_0.31          sf_1.0-15        tictoc_1.2       kableExtra_1.4.0
- [5] dtwclust_5.5.12  dtw_1.23-1       proxy_0.4-27     timetk_2.9.0    
- [9] arrow_14.0.0.2   lubridate_1.9.3  forcats_1.0.0    stringr_1.5.1   
-[13] dplyr_1.1.4      purrr_1.0.2      readr_2.1.5      tidyr_1.3.1     
-[17] tibble_3.2.1     ggplot2_3.4.4    tidyverse_2.0.0 
+ [1] DT_0.28          sf_1.0-14        tictoc_1.2       kableExtra_1.3.4
+ [5] dtwclust_5.5.12  dtw_1.23-1       proxy_0.4-27     timetk_2.8.2    
+ [9] arrow_12.0.0     lubridate_1.9.2  forcats_1.0.0    stringr_1.5.0   
+[13] dplyr_1.1.2      purrr_1.0.1      readr_2.1.4      tidyr_1.3.0     
+[17] tibble_3.2.1     ggplot2_3.4.2    tidyverse_2.0.0 
 
 loaded via a namespace (and not attached):
-  [1] rstudioapi_0.15.0   jsonlite_1.8.8      wk_0.9.1           
+  [1] rstudioapi_0.14     jsonlite_1.8.5      wk_0.7.3           
   [4] magrittr_2.0.3      modeltools_0.2-23   farver_2.1.1       
-  [7] rmarkdown_2.25      vctrs_0.6.5         htmltools_0.5.7    
- [10] dials_1.2.0         curl_5.2.0          s2_1.1.6           
- [13] sass_0.4.8          parallelly_1.36.0   KernSmooth_2.23-22 
- [16] bslib_0.6.1         htmlwidgets_1.6.4   plyr_1.8.9         
- [19] cachem_1.0.8        zoo_1.8-12          mime_0.12          
- [22] lifecycle_1.0.4     iterators_1.0.14    pkgconfig_2.0.3    
- [25] Matrix_1.6-3        R6_2.5.1            fastmap_1.1.1      
- [28] future_1.33.1       shiny_1.8.0         tune_1.1.2         
- [31] clue_0.3-65         digest_0.6.34       colorspace_2.1-0   
- [34] furrr_0.3.1         RSpectra_0.16-1     crosstalk_1.2.1    
- [37] labeling_0.4.3      fansi_1.0.6         yardstick_1.3.0    
- [40] timechange_0.3.0    httr_1.4.7          compiler_4.3.2     
- [43] bit64_4.0.5         withr_3.0.0         DBI_1.2.1          
- [46] MASS_7.3-60         lava_1.7.3          classInt_0.4-10    
- [49] tools_4.3.2         units_0.8-5         httpuv_1.6.14      
- [52] flexclust_1.4-1     future.apply_1.11.1 nnet_7.3-19        
- [55] glue_1.7.0          promises_1.2.1      grid_4.3.2         
- [58] cluster_2.1.6       reshape2_1.4.4      generics_0.1.3     
- [61] recipes_1.0.9       gtable_0.3.4        tzdb_0.4.0         
- [64] class_7.3-22        data.table_1.14.10  hms_1.1.3          
- [67] rsample_1.2.0       xml2_1.3.6          utf8_1.2.4         
- [70] ggrepel_0.9.5       geobr_1.8.2         foreach_1.5.2      
- [73] pillar_1.9.0        later_1.3.2         splines_4.3.2      
- [76] lhs_1.1.6           lattice_0.22-5      survival_3.5-7     
- [79] bit_4.0.5           tidyselect_1.2.0    knitr_1.45         
- [82] svglite_2.1.3       stats4_4.3.2        xfun_0.41          
- [85] hardhat_1.3.0       timeDate_4032.109   stringi_1.8.3      
- [88] DiceDesign_1.10     yaml_2.3.8          workflows_1.1.3    
- [91] evaluate_0.23       codetools_0.2-19    cli_3.6.2          
- [94] RcppParallel_5.1.7  rpart_4.1.23        xtable_1.8-4       
- [97] systemfonts_1.0.5   munsell_0.5.0       jquerylib_0.1.4    
-[100] Rcpp_1.0.12         globals_0.16.2      parallel_4.3.2     
-[103] ellipsis_0.3.2      gower_1.0.1         assertthat_0.2.1   
-[106] parsnip_1.1.1       GPfit_1.0-8         listenv_0.9.0      
-[109] viridisLite_0.4.2   ipred_0.9-14        scales_1.3.0       
-[112] xts_0.13.2          prodlim_2023.08.28  e1071_1.7-14       
-[115] rlang_1.1.3         shinyjs_2.1.0      </code></pre>
+  [7] rmarkdown_2.22      vctrs_0.6.3         webshot_0.5.4      
+ [10] htmltools_0.5.5     dials_1.2.0         curl_5.0.2         
+ [13] s2_1.1.4            sass_0.4.6          parallelly_1.36.0  
+ [16] KernSmooth_2.23-21  bslib_0.4.2         htmlwidgets_1.6.2  
+ [19] plyr_1.8.8          cachem_1.0.8        zoo_1.8-12         
+ [22] mime_0.12           lifecycle_1.0.3     iterators_1.0.14   
+ [25] pkgconfig_2.0.3     Matrix_1.5-4.1      R6_2.5.1           
+ [28] fastmap_1.1.1       future_1.32.0       shiny_1.7.4        
+ [31] tune_1.1.2          clue_0.3-64         digest_0.6.31      
+ [34] colorspace_2.1-0    furrr_0.3.1         RSpectra_0.16-1    
+ [37] crosstalk_1.2.0     labeling_0.4.2      fansi_1.0.4        
+ [40] yardstick_1.2.0     timechange_0.2.0    httr_1.4.6         
+ [43] compiler_4.3.2      bit64_4.0.5         withr_2.5.0        
+ [46] DBI_1.1.3           MASS_7.3-60         lava_1.7.2.1       
+ [49] classInt_0.4-9      tools_4.3.2         units_0.8-2        
+ [52] httpuv_1.6.11       flexclust_1.4-1     future.apply_1.11.0
+ [55] nnet_7.3-19         glue_1.6.2          promises_1.2.0.1   
+ [58] grid_4.3.2          cluster_2.1.4       reshape2_1.4.4     
+ [61] generics_0.1.3      recipes_1.0.6       gtable_0.3.3       
+ [64] tzdb_0.4.0          class_7.3-22        data.table_1.14.8  
+ [67] hms_1.1.3           rsample_1.2.0       xml2_1.3.4         
+ [70] utf8_1.2.3          ggrepel_0.9.3       geobr_1.8.1        
+ [73] foreach_1.5.2       pillar_1.9.0        later_1.3.1        
+ [76] splines_4.3.2       lhs_1.1.6           lattice_0.21-8     
+ [79] survival_3.5-5      bit_4.0.5           tidyselect_1.2.0   
+ [82] knitr_1.43          svglite_2.1.1       stats4_4.3.2       
+ [85] xfun_0.39           hardhat_1.3.0       timeDate_4022.108  
+ [88] stringi_1.7.12      DiceDesign_1.9      yaml_2.3.7         
+ [91] workflows_1.1.3     evaluate_0.21       codetools_0.2-19   
+ [94] cli_3.6.1           RcppParallel_5.1.7  rpart_4.1.19       
+ [97] xtable_1.8-4        systemfonts_1.0.4   jquerylib_0.1.4    
+[100] munsell_0.5.0       Rcpp_1.0.10         globals_0.16.2     
+[103] parallel_4.3.2      ellipsis_0.3.2      gower_1.0.1        
+[106] assertthat_0.2.1    parsnip_1.1.0       GPfit_1.0-8        
+[109] listenv_0.9.0       viridisLite_0.4.2   ipred_0.9-13       
+[112] scales_1.2.1        xts_0.13.1          prodlim_2019.11.13 
+[115] e1071_1.7-13        rlang_1.1.1         rvest_1.0.3        
+[118] shinyjs_2.1.0      </code></pre>
 </div>
 </div>
 
